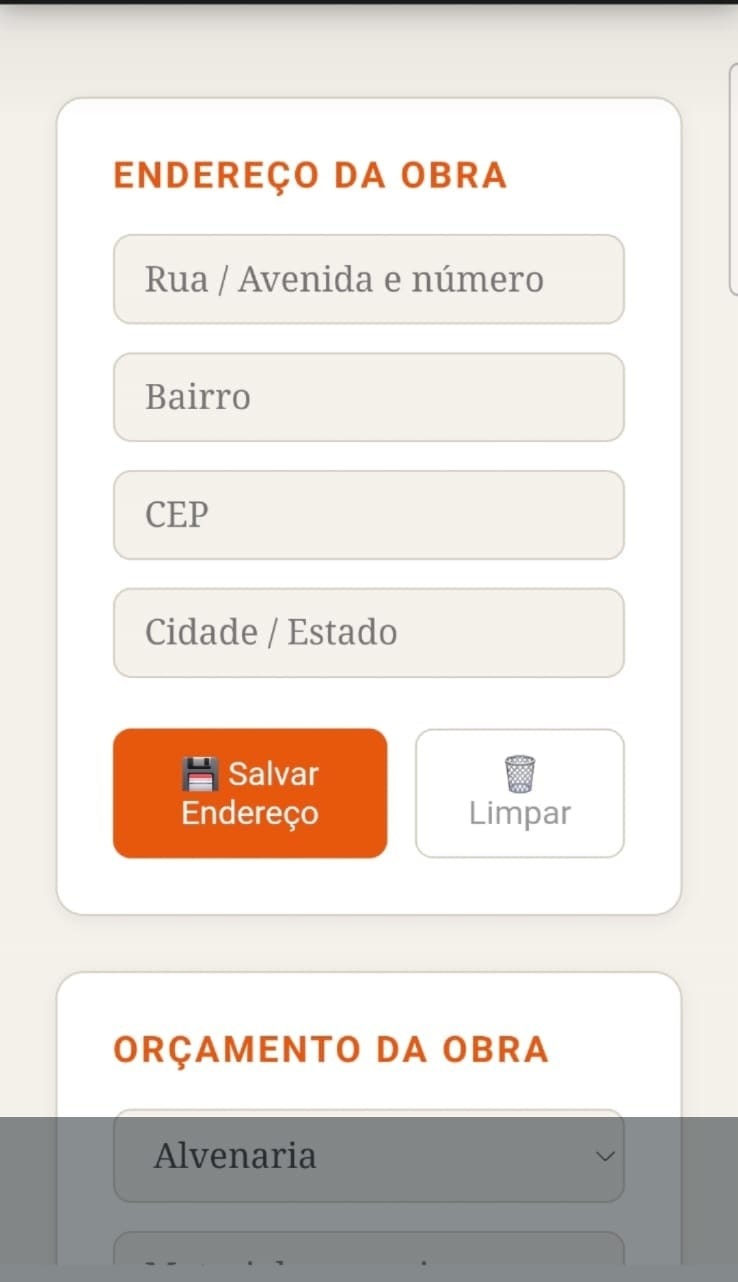
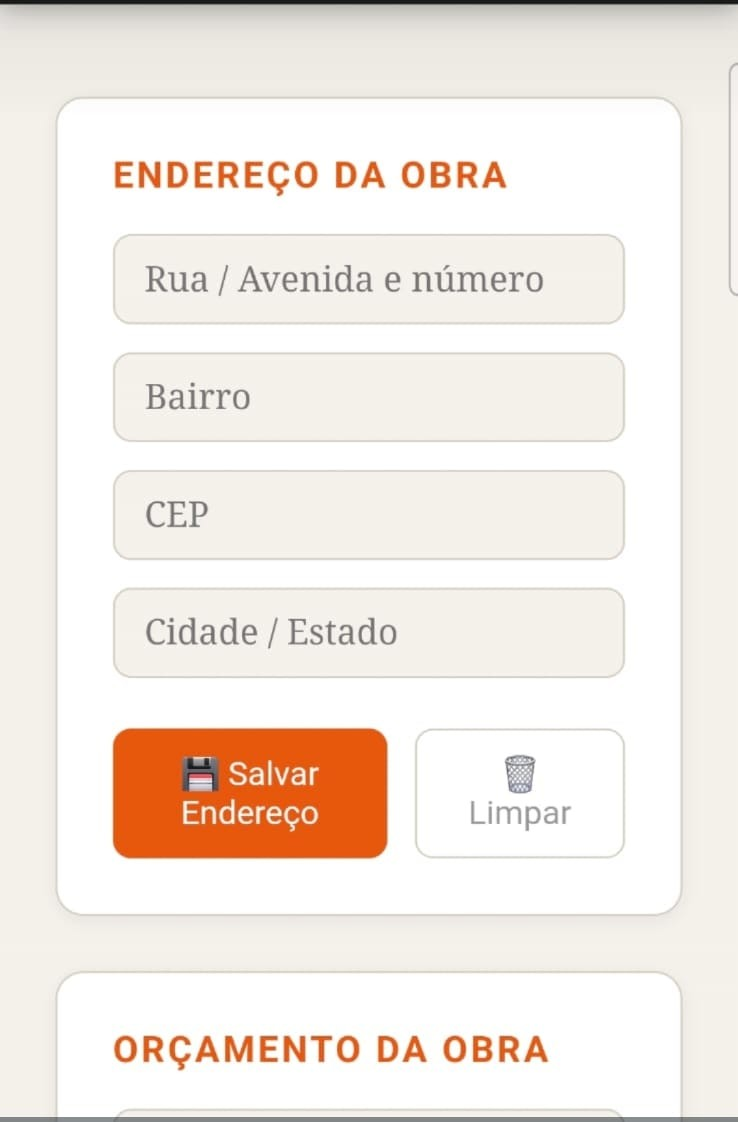
ajusta proporcao das imagens do portfolio

diff --git a/style.css b/style.css
@@ -761,18 +761,21 @@ h1, h2, h3, h4 {
   border-radius: 999px;
 }
 
-/* Cada print do portfólio dentro do carrossel — usa object-fit: contain
-   (em vez de cover) porque cada projeto tem uma proporção de tela um pouco
-   diferente, e não queremos cortar logotipos ou botões importantes. */
+/* Cada print do portfólio dentro do carrossel. Em vez de forçar uma caixa
+   9:18 fixa (o que sobrava como faixas escuras nas laterais, já que cada
+   projeto tem uma proporção de tela diferente), a altura é fixa e a largura
+   se ajusta automaticamente à proporção real de cada imagem — assim nenhuma
+   fica cortada nem com espaço vazio ao redor. */
 .showcase__screen {
-  flex: 0 0 200px;
-  width: 200px;
-  aspect-ratio: 9 / 18;
+  flex: 0 0 auto;
+  width: auto;
+  height: 340px;
+  max-width: 220px;
   scroll-snap-align: start;
-  background-color: #1c1c1c;
   border: 1.5px solid #3a3a3a;
   border-radius: var(--radius-md);
-  object-fit: contain;
+  object-fit: cover;
+  object-position: top center;
 }
 
 .showcase__arrow {
